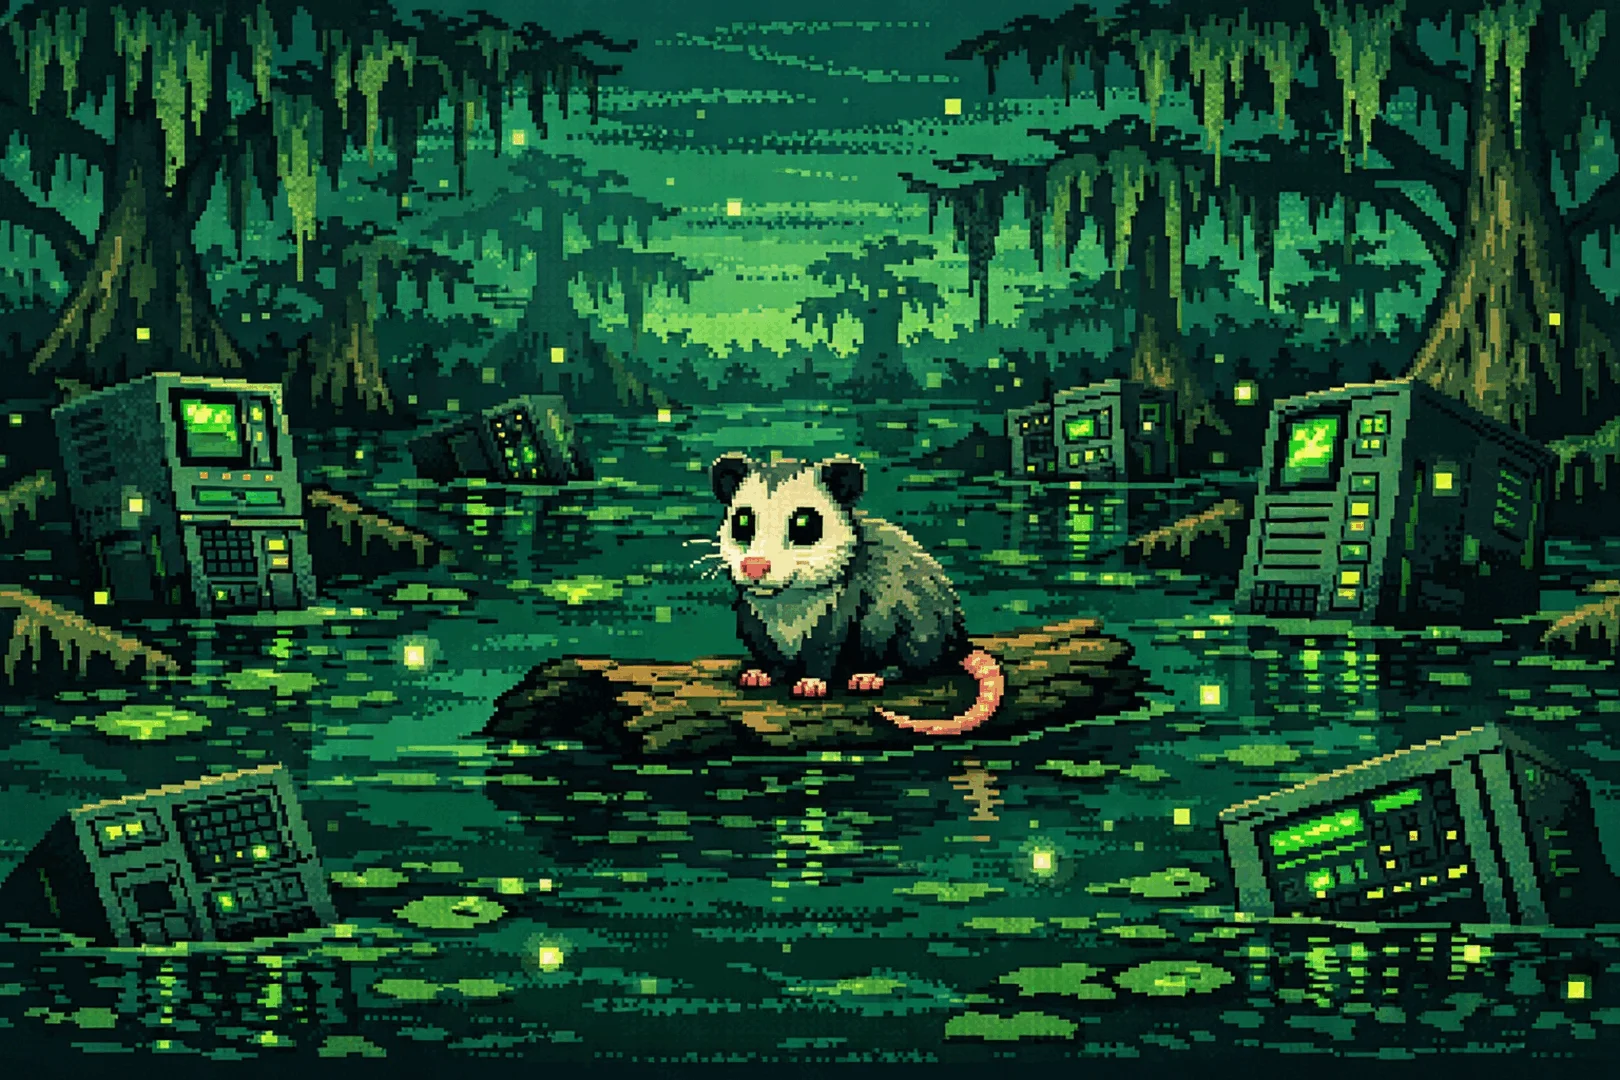
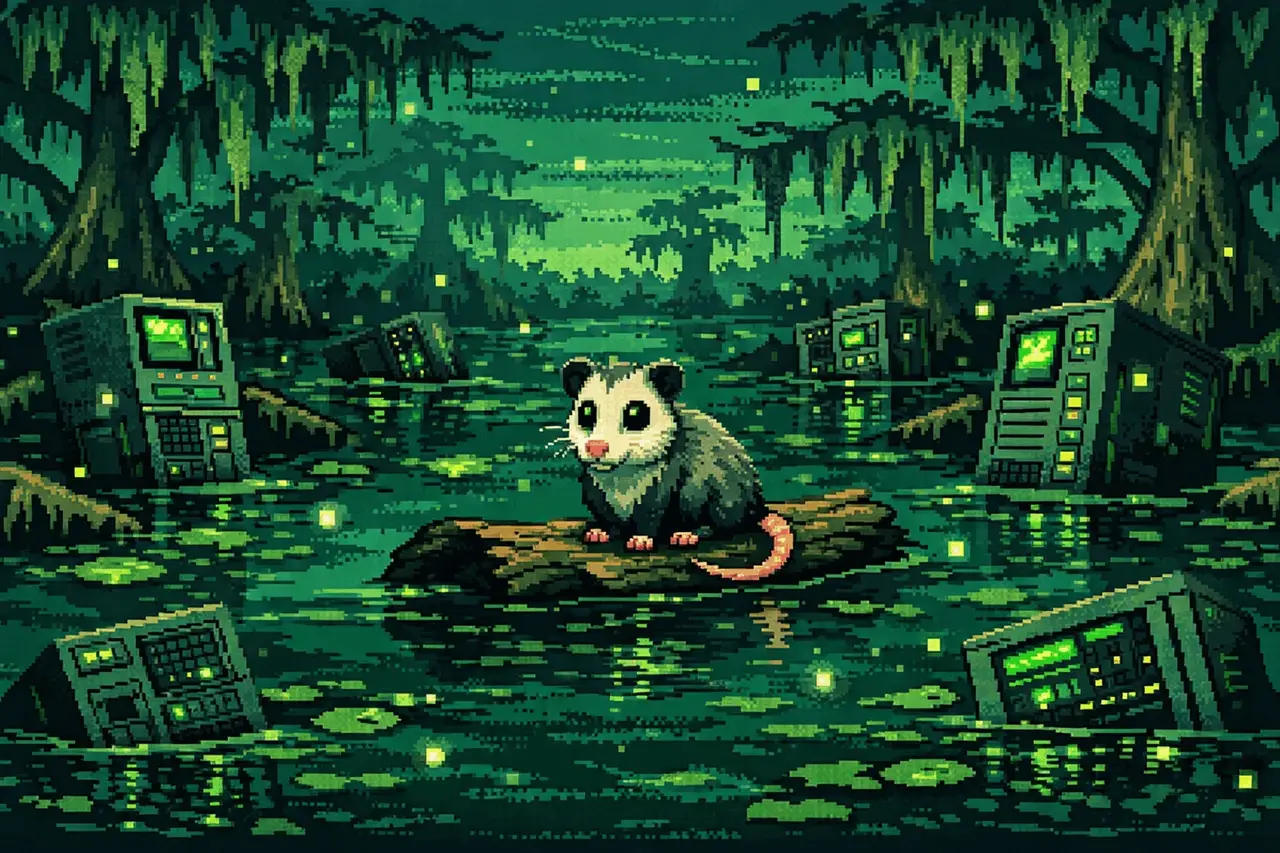
perf(homepage): optimize assets and fonts to reduce TBT
- bg-swamp.webp: 288KB → 134KB (-53%) via resize 1280px + quality 72
- layout.tsx: preload:false on Geist/Geist_Mono (not used on homepage, saves 57KB)
- Navbar: add priority to logo Image (above-the-fold LCP hint)

diff --git a/src/app/layout.tsx b/src/app/layout.tsx
@@ -10,11 +10,13 @@ import CookieConsent from "@/components/CookieConsent";
 const geistSans = Geist({
   variable: "--font-geist-sans",
   subsets: ["latin"],
+  preload: false, // non utilisé sur la homepage, chargé à la demande
 });
 
 const geistMono = Geist_Mono({
   variable: "--font-geist-mono",
   subsets: ["latin"],
+  preload: false, // non utilisé sur la homepage, chargé à la demande
 });
 
 const pressStart2P = Press_Start_2P({

diff --git a/src/components/Navbar.tsx b/src/components/Navbar.tsx
@@ -104,6 +104,7 @@ export default function Navbar() {
                         alt="CODEBOG"
                         width={80}
                         height={80}
+                        priority
                         className="hover:scale-105 transition-transform"
                     />
                 </Link>
